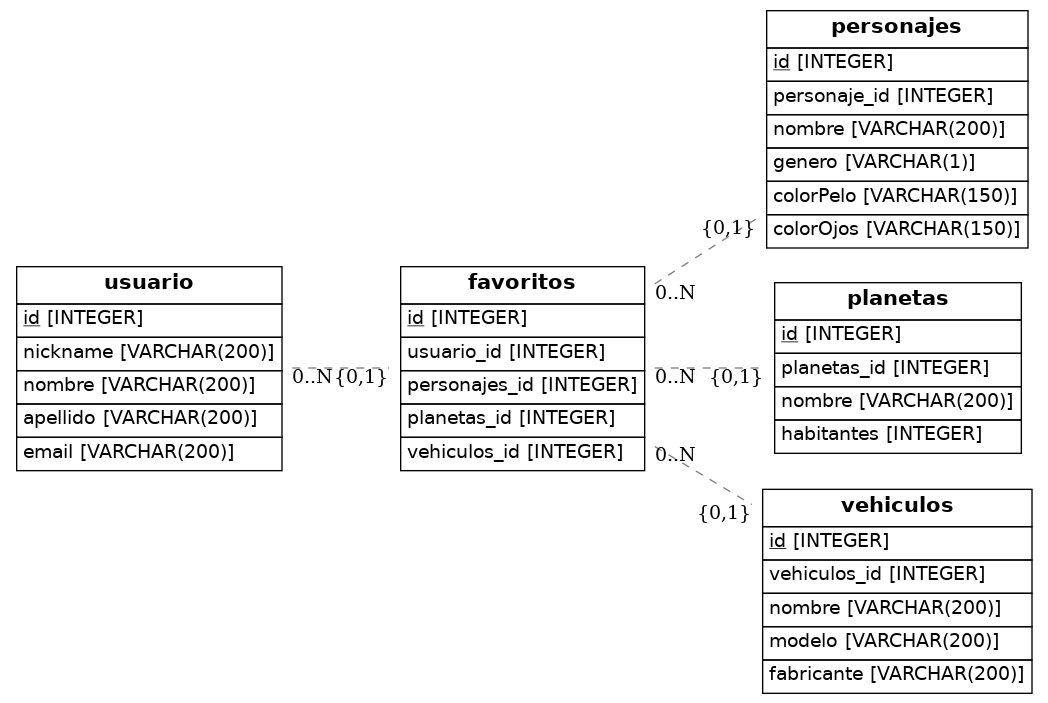
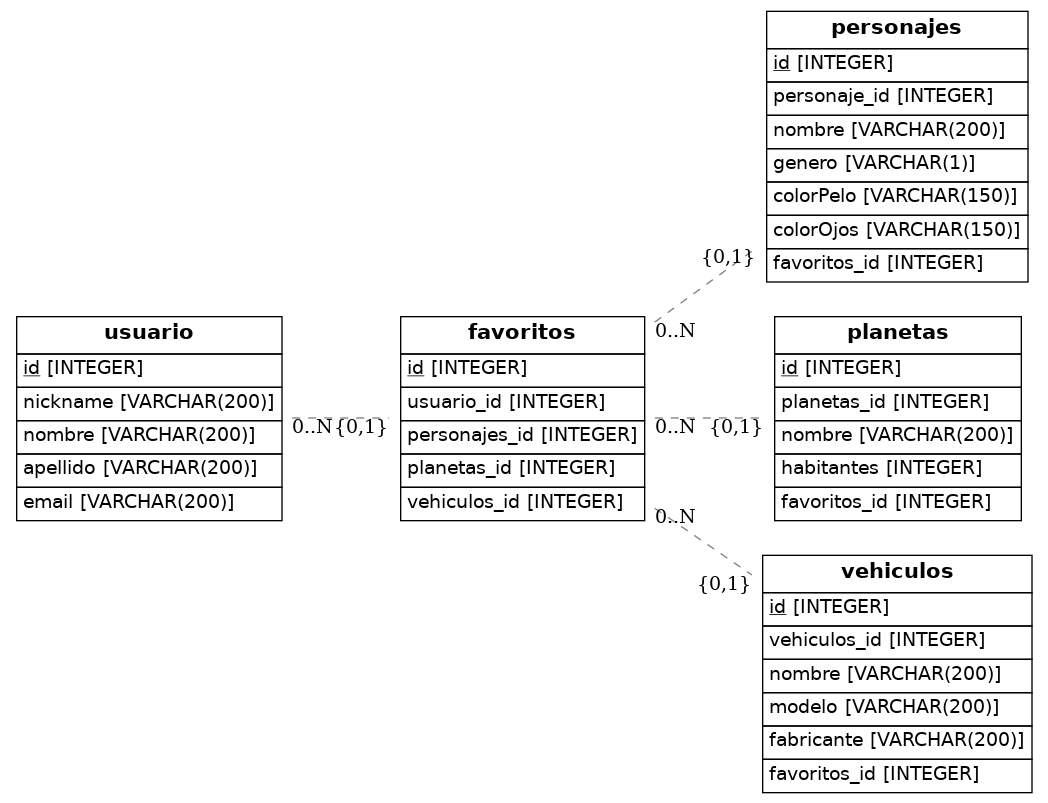
relationship review

diff --git a/src/models.py b/src/models.py
@@ -1,12 +1,19 @@
 import os
 import sys
-from sqlalchemy import Column, ForeignKey, Integer, String
+from sqlalchemy import Column, ForeignKey, Integer, String, Table
 from sqlalchemy.ext.declarative import declarative_base
 from sqlalchemy.orm import relationship
 from sqlalchemy import create_engine
 from eralchemy import render_er
 
 Base = declarative_base()
+
+# association_table = Table(
+#     "association",
+#     Base.metadata,
+#     Column("favoritos_id", ForeignKey("favoritos.id")),
+#     Column("personajes_id", ForeignKey("personajes.id")),
+# )
 
 class Usuario(Base):
     __tablename__ = 'usuario'
@@ -29,31 +36,37 @@ class Favoritos(Base):
     usuario = relationship("usuario")  
     personajes = relationship("personajes")
     vehiculos = relationship("vehiculos")
-    planetas = relationship("planetas")
+    planetas = relationship("Planetas")
 
 class Personajes(Base):
     __tablename__ = "personajes"
     id = Column(Integer, primary_key=True)
-    personaje_id = Column(Integer, ForeignKey("favoritos.personajes_id")) 
+    personaje_id = Column(Integer) 
     nombre = Column(String(200))
     genero = Column(String(1))
     colorPelo = Column(String(150))
     colorOjos = Column(String(150))
+    favoritos_id = Column(Integer, ForeignKey("favoritos.id"))
+    favoritos = relationship("Favoritos")
 
 class Planetas(Base):
     __tablename__ = "planetas"
     id = Column(Integer, primary_key=True)
-    planetas_id = Column(Integer, ForeignKey("favoritos.planetas_id"))
+    planetas_id = Column(Integer)
     nombre = Column(String(200))
     habitantes = Column(Integer)
+    favoritos_id = Column(Integer, ForeignKey("favoritos.id"))
+    favoritos = relationship("Favoritos")
 
 class Vehiculos(Base):
     __tablename__ = "vehiculos"
     id = Column(Integer, primary_key=True)
-    vehiculos_id = Column(Integer, ForeignKey("favoritos.vehiculos_id") )
+    vehiculos_id = Column(Integer)
     nombre = Column(String(200))
     modelo = Column(String(200))
     fabricante = Column(String(200))
+    favoritos_id = Column(Integer, ForeignKey("favoritos.id"))
+    favoritos = relationship("Favoritos")
 
 
 # class Person(Base):
